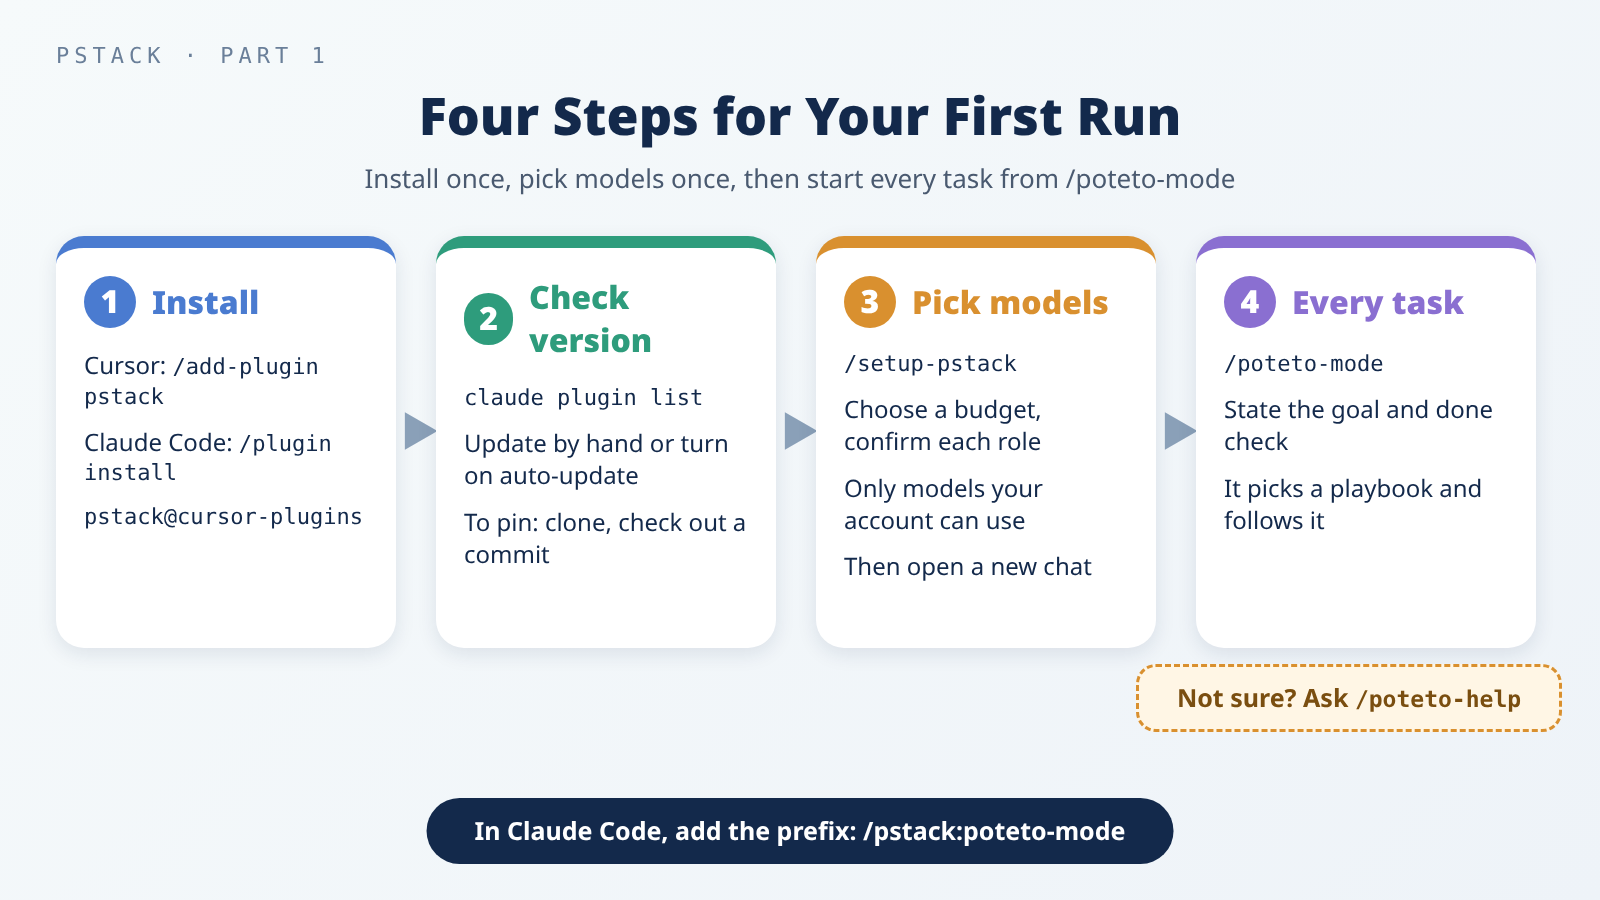
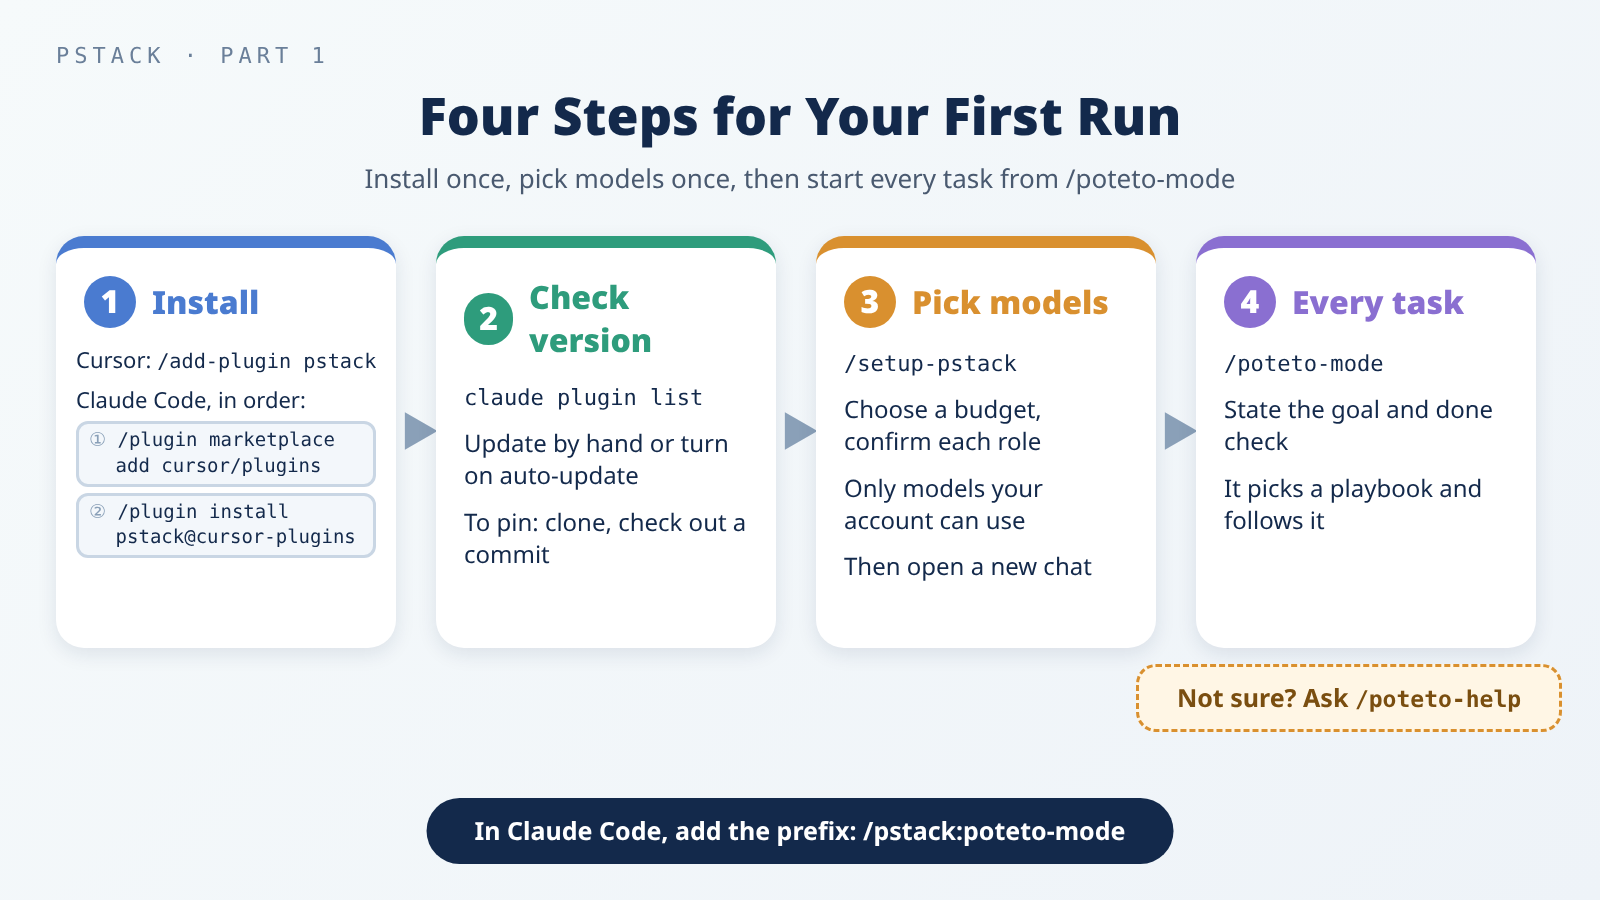
pstack 系列（1）：依審稿 v1 修改
L28 釐清 01-setup 未改、README 新增更新說明；補 CLI、預設分支、tag、git、形式驗證的說明；zh-CN 用詞；install-setup-flow 第 1 張卡片加上 marketplace add；en repo 說明句。

Changed region(s): [[0.0312, 0.3733, 0.25, 0.6222]]

diff --git a/_posts/en/2026-10-22-pstack-install-routing.md b/_posts/en/2026-10-22-pstack-install-routing.md
@@ -25,7 +25,7 @@ The example prompts in this post are generic. Copy them and swap in details from
 >
 > **Version note**: This post is based on pstack [version `0.15.29`](https://github.com/cursor/plugins/blob/88d47514b82e7c44f00f2b2a72ff6dd12158038c/pstack/.cursor-plugin/plugin.json), at `cursor/plugins` commit `88d4751`, the version when this post first went out on 2026-10-22. When it was rewritten as a tutorial on 2026-10-24, it stayed on this version. The Claude Code commands and menus follow the [official docs](https://code.claude.com/docs/en/plugins/install) as read on 2026-10-24. Later versions may change commands and behavior.
 >
-> When checked on 2026-10-24 at 10:51 Taipei time, the latest version on `cursor/plugins` main was `0.15.32` (commit `e853501`), and the skill count had risen to 58 with the addition of `statechart` and `ketchup-video`. Compared with `0.15.29`, `setup-pstack`, the install guide, and the Claude Code notes haven't changed; `poteto-mode`'s SKILL.md and playbooks haven't changed, and only its internal scripts were updated; `poteto-help` only added two rows for those two new skills to its lookup table.
+> When checked on 2026-10-24 at 10:51 Taipei time, the latest version on `cursor/plugins` main was `0.15.32` (commit `e853501`), and the skill count had risen to 58 with the addition of `statechart` and `ketchup-video`. Compared with `0.15.29`, `setup-pstack`, the setup guide (01-setup), and the Claude Code notes haven't changed. The README added a paragraph on automatic and manual updates after its install steps (it matches Step 2 here), plus rows for the two new skills. `poteto-mode`'s SKILL.md and playbooks haven't changed, and only its internal scripts were updated; `poteto-help` only added two rows for those two new skills to its lookup table.
 {: .prompt-info }
 
 ## What pstack Installs
@@ -45,7 +45,7 @@ The [README](https://github.com/cursor/plugins/blob/88d47514b82e7c44f00f2b2a72ff
 /add-plugin pstack
 ```
 
-In Claude Code, first add the `cursor/plugins` GitHub repo (a repository, the project that holds the code) as a marketplace (a plugin catalog), then install pstack from that catalog:
+In Claude Code, first add the `cursor/plugins` GitHub repo (repository: the project folder that holds the code) as a marketplace (a plugin catalog), then install pstack from that catalog:
 
 ```text
 /plugin marketplace add cursor/plugins
@@ -54,7 +54,7 @@ In Claude Code, first add the `cursor/plugins` GitHub repo (a repository, the pr
 
 `pstack@cursor-plugins` on the second line means "install pstack from the cursor-plugins catalog." According to the [Claude Code docs](https://code.claude.com/docs/en/plugins/install#install-a-plugin), typing `/plugin install` in a chat doesn't install right away. It first opens the plugin's details pane so you can see what it adds, and then asks you to pick a scope. "Install for you" (user scope) makes it available in every project on this machine.
 
-> None of the commands above name a version. You get whatever is on the default branch of `cursor/plugins` at that moment. For what to check before installing someone else's plugin, see [this post on supply-chain and permission risks](/posts/coding-agent-supply-chain-permission-risks/).
+> None of the commands above name a version. You get whatever is on the default branch of `cursor/plugins` at that moment (the default branch is the main line of work in a repo, usually called main). For what to check before installing someone else's plugin, see [this post on supply-chain and permission risks](/posts/coding-agent-supply-chain-permission-risks/).
 {: .prompt-tip }
 
 There are also third-party mirrors of pstack online, such as `backnotprop/pstack`. They are not the version that `cursor/plugins` maintains. If you use one, read through it and pin a version first, for the reasons in the same [supply-chain post](/posts/coding-agent-supply-chain-permission-risks/).
@@ -89,9 +89,9 @@ This post doesn't cover how updates work on the Cursor side.
 
 ### Pin a Specific Commit
 
-A commit is one saved version in git, and each commit has an ID (its SHA). To keep pstack on a commit you've reviewed, you can use a local folder as the marketplace.
+A commit is one saved version in git (the most widely used version-control tool), and each commit has an ID (its SHA). To keep pstack on a commit you've reviewed, you can use a local folder as the marketplace.
 
-Here's why. In Claude Code's official [command reference](https://code.claude.com/docs/en/plugins/cli-reference#plugin-install), `/plugin install` has no option for a version or commit. `/plugin marketplace add` lets you add `#ref` after the repo to [pin a branch or tag](https://code.claude.com/docs/en/plugins/install#add-a-marketplace), but when I checked on 2026-10-24, `cursor/plugins` had no tags. The `sha` field that can pin a commit lives in the catalog's `marketplace.json` and is set by the catalog's maintainer (see the [marketplace reference](https://code.claude.com/docs/en/plugins/marketplace-reference#plugin-sources)); the pstack entry in `cursor/plugins` doesn't set it.
+Here's why. In Claude Code's official [command reference](https://code.claude.com/docs/en/plugins/cli-reference#plugin-install), `/plugin install` has no option for a version or commit. `/plugin marketplace add` lets you add `#ref` after the repo to [pin a branch or tag](https://code.claude.com/docs/en/plugins/install#add-a-marketplace) (a tag is a fixed name given to one commit, such as v1.0), but when I checked on 2026-10-24, `cursor/plugins` had no tags. The `sha` field that can pin a commit lives in the catalog's `marketplace.json` and is set by the catalog's maintainer (see the [marketplace reference](https://code.claude.com/docs/en/plugins/marketplace-reference#plugin-sources)); the pstack entry in `cursor/plugins` doesn't set it.
 
 The official docs support adding a local folder as a marketplace. So you can download (clone) the repo to your computer, check out the commit you reviewed, and add that folder as a marketplace. Using this post's commit as the example, run in your terminal:
 
@@ -125,7 +125,7 @@ pstack splits work across roles, such as the one that writes code, the one that 
 3. **Shows which model each role gets**, and asks whether to accept them all or change a few roles.
 4. **Checks** that every model you chose is in the detected list. If one isn't, it stops and asks again.
 5. **Writes the settings file.**
-6. **Asks whether to generate verification skills for your project.** One lets the AI drive your app the way a user does and check the result itself (`/create-verification-skill`); the other is a formal verification skill (`/create-formal-verification-skill`). Each offer comes up once, and you can say no.
+6. **Asks whether to generate verification skills for your project.** One lets the AI drive your app the way a user does and check the result itself (`/create-verification-skill`); the other is a formal verification skill (`/create-formal-verification-skill`), which proves a key property of your code holds in every case in scope, not only the cases tests reach. Each offer comes up once, you can say no, and it is skipped if the project already has that kind of skill.
 
 There are four budgets:
 
@@ -235,11 +235,11 @@ _/poteto-mode first identifies the task type, then follows that playbook's steps
 /pstack:poteto-mode new task. figure out why the cache entry survives logout. don't change any code yet.
 ```
 
-- **Call it again for each new task**: in Cursor, you can pick `/poteto-mode` from the `/` menu with Option+Enter (Mac) or Alt+Enter (Windows) to make it a Custom Mode, a mode that stays on for the whole chat. According to the [`poteto-help` notes](https://github.com/cursor/plugins/blob/88d47514b82e7c44f00f2b2a72ff6dd12158038c/pstack/skills/poteto-help/SKILL.md#L54-L58), Cursor's docs list Custom Modes only in the Agents Window and the CLI. Everywhere else, Claude Code included, start each new task with `/pstack:poteto-mode`.
+- **Call it again for each new task**: in Cursor, you can pick `/poteto-mode` from the `/` menu with Option+Enter (Mac) or Alt+Enter (Windows) to make it a Custom Mode, a mode that stays on for the whole chat. According to the [`poteto-help` notes](https://github.com/cursor/plugins/blob/88d47514b82e7c44f00f2b2a72ff6dd12158038c/pstack/skills/poteto-help/SKILL.md#L54-L58), Cursor's docs list Custom Modes only in the Agents Window and the CLI (a program you run with typed commands in a terminal). Everywhere else, Claude Code included, start each new task with `/pstack:poteto-mode`.
 
 ## Should You Install cursor-team-kit Too?
 
-The [README](https://github.com/cursor/plugins/blob/88d47514b82e7c44f00f2b2a72ff6dd12158038c/pstack/README.md#L255-L263) says three things `/poteto-mode` uses aren't in pstack but in another plugin, `cursor-team-kit`: `/deslop`, which cleans up code, and `control-cli` and `control-ui`, which drive a CLI (a program you run with typed commands in a terminal) and a browser UI. The README's advice is to install `cursor-team-kit` alongside pstack for the full set. [Guide chapter 5](https://github.com/cursor/plugins/blob/88d47514b82e7c44f00f2b2a72ff6dd12158038c/pstack/docs/guide/05-build-and-clean.md#L59) adds that the steps before opening a PR run `/deslop`. If you don't have it, ask for the same cleanup in plain words, such as removing narrating comments, defensive code with no reason behind it, and changes unrelated to the task.
+The [README](https://github.com/cursor/plugins/blob/88d47514b82e7c44f00f2b2a72ff6dd12158038c/pstack/README.md#L255-L263) says three things `/poteto-mode` uses aren't in pstack but in another plugin, `cursor-team-kit`: `/deslop`, which cleans up code, and `control-cli` and `control-ui`, which drive a CLI and a browser UI. The README's advice is to install `cursor-team-kit` alongside pstack for the full set. [Guide chapter 5](https://github.com/cursor/plugins/blob/88d47514b82e7c44f00f2b2a72ff6dd12158038c/pstack/docs/guide/05-build-and-clean.md#L59) adds that the steps before opening a PR run `/deslop`. If you don't have it, ask for the same cleanup in plain words, such as removing narrating comments, defensive code with no reason behind it, and changes unrelated to the task.
 
 ## When to Use Which
 
